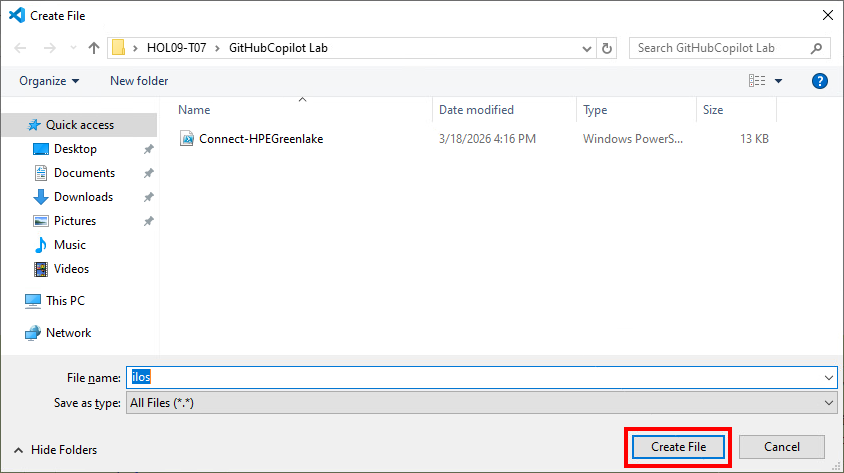
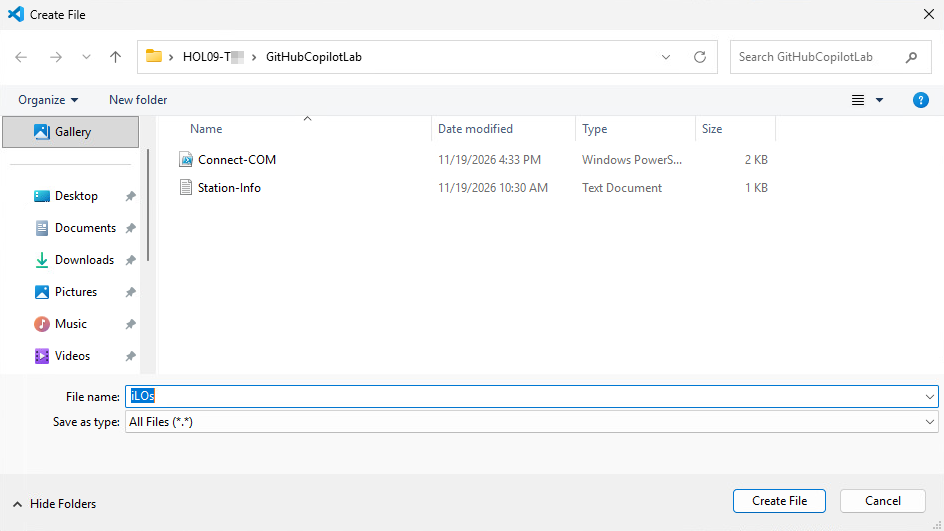
Update COM Copilot HOL

diff --git a/_posts/2026-02-26-Copilot with HPECOMCmdlets.md b/_posts/2026-02-26-Copilot with HPECOMCmdlets.md
@@ -540,20 +540,20 @@ method that would work just as well if we had dozens or even hundreds of
 servers to add, even though in this lab you will only add one. We should
 prepare a file with the details of the server(s) we want to add. 
 
-- In VS Code menu click **File** -\> **New File**:
+- In VS Code menu click **File** ➜ **New File**:
 
   [![]( {{ site.baseurl }}/assets/images/HOLs/COM-Copilot-With-HPECOMCmdlets/image18.png){: .bordered-image-thin}]( {{ site.baseurl }}/assets/images/HOLs/COM-Copilot-With-HPECOMCmdlets/image18.png){:class="img-300"}{: data-lightbox="gallery"}
 
-- Type the file name **ilos.csv** and **Enter**:
+- Type the file name **iLOs.csv** and **Enter**:
 
   [![]( {{ site.baseurl }}/assets/images/HOLs/COM-Copilot-With-HPECOMCmdlets/image19.png){: .bordered-image-thin}]( {{ site.baseurl }}/assets/images/HOLs/COM-Copilot-With-HPECOMCmdlets/image19.png){:class="img-600"}{: data-lightbox="gallery"}
 
   A standard Windows dialog will appear to choose the location where you
-want to save the file. It should be in folder **HOL09-T<span style="color:red">nn</span>** \> **GitHubCopilotLab**. 
+want to save the file. It should be in folder **HOL09-T<span style="color:red">nn</span>** \> **GitHubCopilot Lab**. 
 
 - Click **Create File**.
 
-  [![]( {{ site.baseurl }}/assets/images/HOLs/COM-Copilot-With-HPECOMCmdlets/image20.png){: .bordered-image-thin}]( {{ site.baseurl }}/assets/images/HOLs/COM-Copilot-With-HPECOMCmdlets/image20.png){:class="img-900"}{: data-lightbox="gallery"}
+  [![]( {{ site.baseurl }}/assets/images/HOLs/COM-Copilot-With-HPECOMCmdlets/image20.png){: .bordered-image-thin}]( {{ site.baseurl }}/assets/images/HOLs/COM-Copilot-With-HPECOMCmdlets/image20.png){:class="img-800"}{: data-lightbox="gallery"}
 
 - Decline VS Code's suggestion to install an extension to handle CSV files
 (at the bottom right of the screen), we don't really need it for the
@@ -561,17 +561,15 @@ simple work we have to do:
 
   [![]( {{ site.baseurl }}/assets/images/HOLs/COM-Copilot-With-HPECOMCmdlets/image21.png){: .bordered-image-thin}]( {{ site.baseurl }}/assets/images/HOLs/COM-Copilot-With-HPECOMCmdlets/image21.png){:class="img-500"}{: data-lightbox="gallery"}
 
-- Open **Station-Info.txt**, copy the two lines under **Content of ilos.csv**, and paste them into the **ilos.csv** file. They look like this, with your own iLO IP and password:
+- Open **Station-Info.txt**, copy the two lines under **Content of ilos.csv**, and paste them into the **ilos.csv** file:
 
-  ```csv
-  IP, Username, Password
-  10.18.22.<xx>, Administrator, <iLO's password>
-  ```
+  [![]( {{ site.baseurl }}/assets/images/HOLs/COM-Copilot-With-HPECOMCmdlets/image21a1.png){: .bordered-image-thin}]( {{ site.baseurl }}/assets/images/HOLs/COM-Copilot-With-HPECOMCmdlets/image21a1.png){:class="img-500"}{: data-lightbox="gallery"}
 
-  Make sure the data is on 2 lines like shown above, with no extra space
-at the beginning or end of either line (space after a comma is OK). 
+  Make sure the data is on 2 lines like shown below: 
 
-- Save the file with **Ctrl**-**S** or **File**-\>**Save** in VS Code's menu.
+  [![]( {{ site.baseurl }}/assets/images/HOLs/COM-Copilot-With-HPECOMCmdlets/image21a2.png){: .bordered-image-thin}]( {{ site.baseurl }}/assets/images/HOLs/COM-Copilot-With-HPECOMCmdlets/image21a2.png){:class="img-700"}{: data-lightbox="gallery"}
+
+- Save the file with **Ctrl**-**S** or **File** ➜ **Save** in VS Code's menu.
 
   > If we had more servers to onboard, we would simply add more lines into
 this file and our script would iterate over each line.
@@ -580,11 +578,10 @@ this file and our script would iterate over each line.
 import the csv file:
 
   ```text
-  Import file ilos.csv. Double check the field names in the csv file. Do not use module HPEiLOCmdlets
+  Import file iLOs.csv. Double check the field names in the csv file. Do not use module HPEiLOCmdlets
   ```
 
-  You should see it generated code to import the file into a variable `$iLOs` (it even figured out on its own the proper case for the name
-iLO!). It may have put the code in the middle of the script, before
+  You should see it generated code to import the file into a variable `$iLOs`. It may have put the code in the middle of the script, before
 creating the workspace, but that's OK.
 
 - To add servers into COM, we need an activation key that we can ask COM
